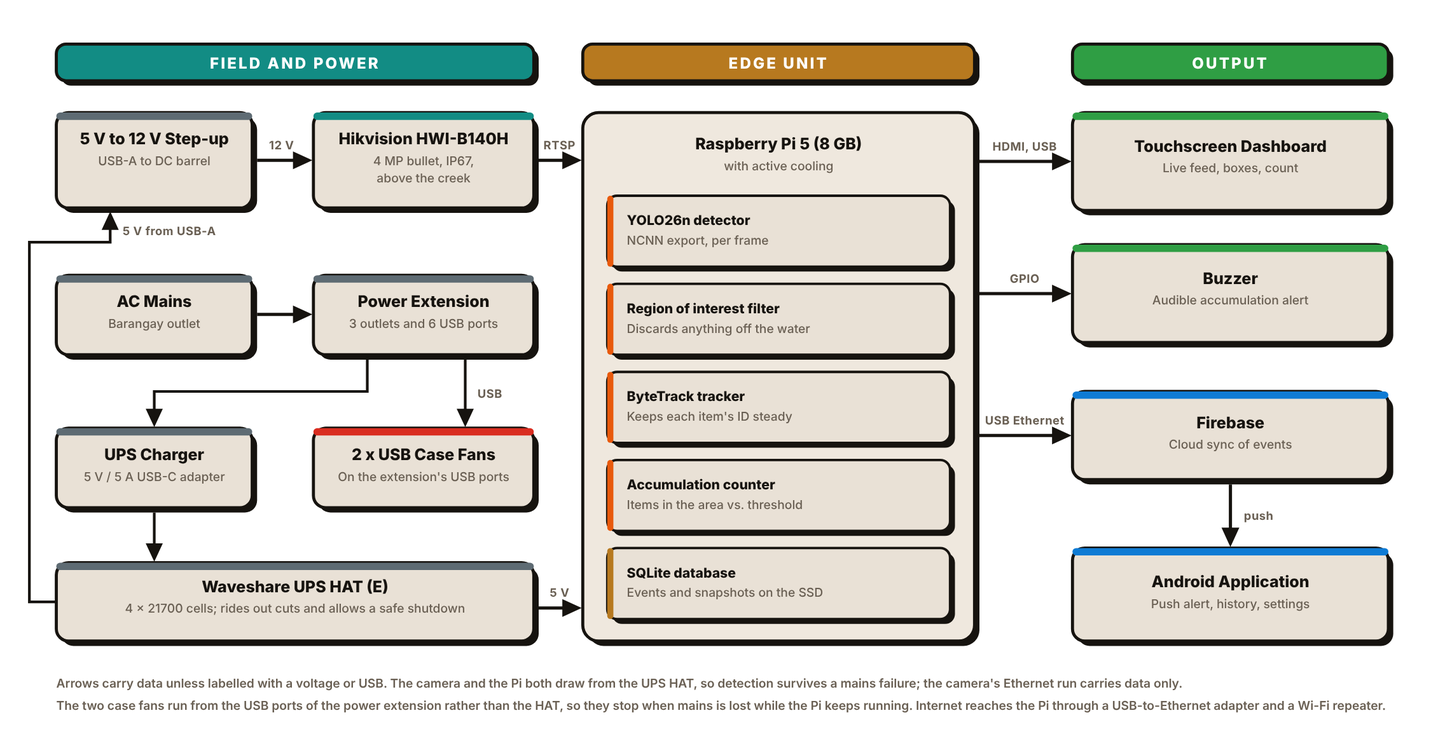
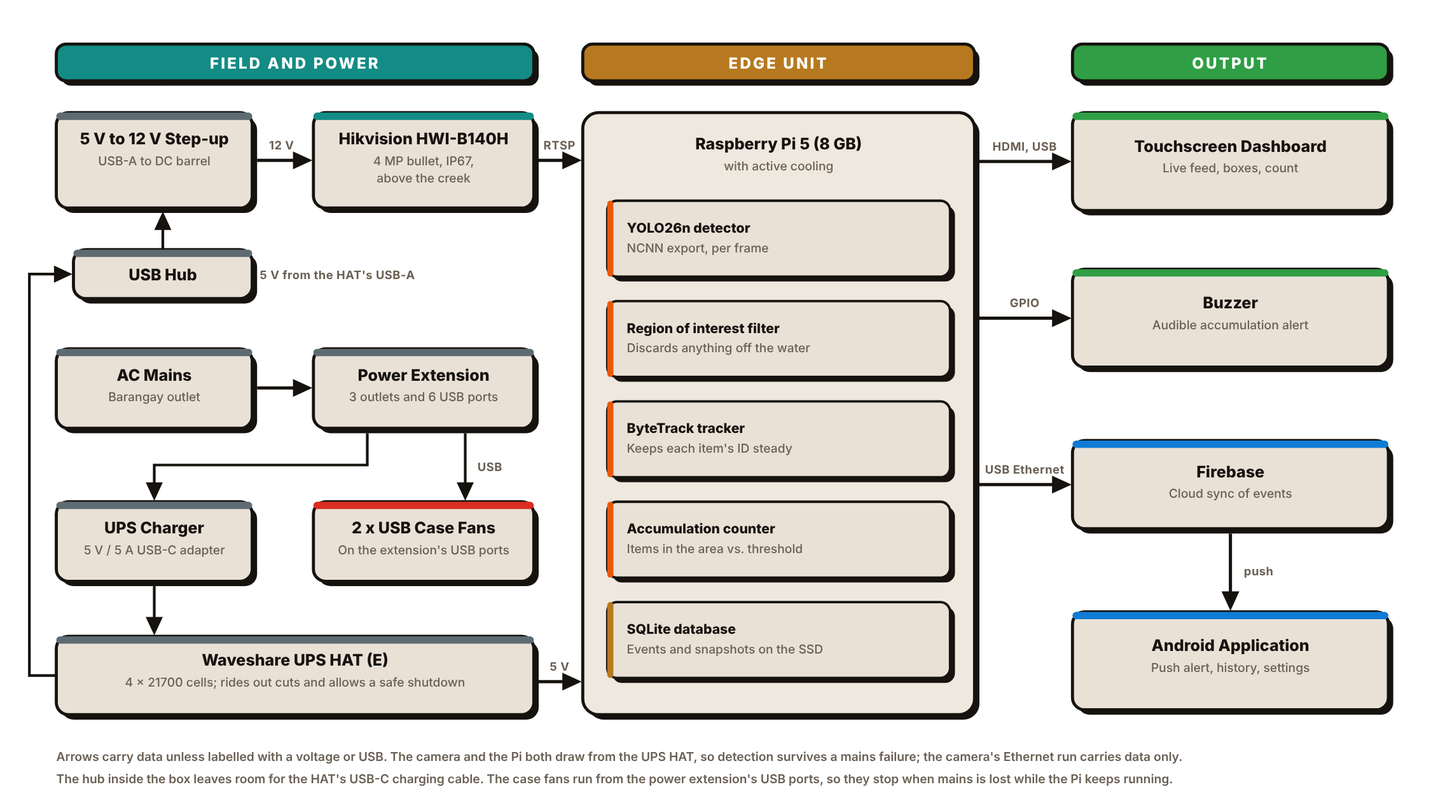
v22 inputs: USB hub in the architecture figure and Chapter III

diff --git a/Documents/Figures/GarbageGuard_System_Architecture.html b/Documents/Figures/GarbageGuard_System_Architecture.html
@@ -1,12 +1,12 @@
 <!doctype html>
 <html lang="en"><head><meta charset="utf-8"><title>Garbage-Guard System Architecture</title>
 <style>
-@page { size:1180px 600px; margin:0 }
+@page { size:1180px 660px; margin:0 }
 *{margin:0;box-sizing:border-box}
 html,body{background:#FFFFFF}
 body{width:1180px;-webkit-print-color-adjust:exact;print-color-adjust:exact}
 </style></head><body>
-<svg xmlns="http://www.w3.org/2000/svg" viewBox="0 0 1180 600" width="1180" height="600">
+<svg xmlns="http://www.w3.org/2000/svg" viewBox="0 0 1180 660" width="1180" height="660">
 <style>
 text { font-family:system-ui,-apple-system,"Segoe UI","DejaVu Sans",Roboto,sans-serif }
 .ct { font-size:13px; font-weight:800; fill:#16130F }
@@ -17,7 +17,7 @@ text { font-family:system-ui,-apple-system,"Segoe UI","DejaVu Sans",Roboto,sans-
 .tw { font-size:10px; font-weight:500; fill:#6A6054 }
 .lg { font-size:10px; font-weight:600; fill:#6A6054 }
 </style>
-<rect width="1180" height="600" fill="#FFFFFF"/>
-<rect x="50" y="40" width="390" height="30" rx="8" fill="#16130F"/><rect x="46" y="36" width="390" height="30" rx="8" fill="#128C84" stroke="#16130F" stroke-width="2.5"/><text x="241.0" y="56" class="hd" text-anchor="middle">FIELD AND POWER</text><rect x="50" y="96" width="160" height="78" rx="10" fill="#16130F"/><rect x="46" y="92" width="160" height="78" rx="10" fill="#E9E1D6" stroke="#16130F" stroke-width="2.5"/><rect x="46" y="92" width="160" height="6" rx="3" fill="#5E6B73"/><text x="126.0" y="118" class="ct" text-anchor="middle">5 V to 12 V Step-up</text><text x="126.0" y="135" class="cs" text-anchor="middle">USB-A to DC barrel</text><rect x="260" y="96" width="180" height="78" rx="10" fill="#16130F"/><rect x="256" y="92" width="180" height="78" rx="10" fill="#E9E1D6" stroke="#16130F" stroke-width="2.5"/><rect x="256" y="92" width="180" height="6" rx="3" fill="#128C84"/><text x="346.0" y="118" class="ct" text-anchor="middle">Hikvision HWI-B140H</text><text x="346.0" y="135" class="cs" text-anchor="middle">4 MP bullet, IP67,</text><text x="346.0" y="149" class="cs" text-anchor="middle">above the creek</text><rect x="50" y="229" width="160" height="65" rx="10" fill="#16130F"/><rect x="46" y="225" width="160" height="65" rx="10" fill="#E9E1D6" stroke="#16130F" stroke-width="2.5"/><rect x="46" y="225" width="160" height="6" rx="3" fill="#5E6B73"/><text x="126.0" y="251" class="ct" text-anchor="middle">AC Mains</text><text x="126.0" y="268" class="cs" text-anchor="middle">Barangay outlet</text><rect x="260" y="229" width="180" height="65" rx="10" fill="#16130F"/><rect x="256" y="225" width="180" height="65" rx="10" fill="#E9E1D6" stroke="#16130F" stroke-width="2.5"/><rect x="256" y="225" width="180" height="6" rx="3" fill="#5E6B73"/><text x="346.0" y="251" class="ct" text-anchor="middle">Power Extension</text><text x="346.0" y="268" class="cs" text-anchor="middle">3 outlets and 6 USB ports</text><rect x="50" y="354" width="160" height="65" rx="10" fill="#16130F"/><rect x="46" y="350" width="160" height="65" rx="10" fill="#E9E1D6" stroke="#16130F" stroke-width="2.5"/><rect x="46" y="350" width="160" height="6" rx="3" fill="#5E6B73"/><text x="126.0" y="376" class="ct" text-anchor="middle">UPS Charger</text><text x="126.0" y="393" class="cs" text-anchor="middle">5 V / 5 A USB-C adapter</text><rect x="260" y="354" width="180" height="65" rx="10" fill="#16130F"/><rect x="256" y="350" width="180" height="65" rx="10" fill="#E9E1D6" stroke="#16130F" stroke-width="2.5"/><rect x="256" y="350" width="180" height="6" rx="3" fill="#D92D20"/><text x="346.0" y="376" class="ct" text-anchor="middle">2 x USB Case Fans</text><text x="346.0" y="393" class="cs" text-anchor="middle">On the extension's USB ports</text><rect x="50" y="464" width="390" height="64" rx="10" fill="#16130F"/><rect x="46" y="460" width="390" height="64" rx="10" fill="#E9E1D6" stroke="#16130F" stroke-width="2.5"/><rect x="46" y="460" width="390" height="6" rx="3" fill="#5E6B73"/><text x="241.0" y="484" class="ct" text-anchor="middle">Waveshare UPS HAT (E)</text><text x="241.0" y="501" class="cs" text-anchor="middle">4 x 21700 cells; rides out cuts and allows a safe shutdown</text><rect x="480" y="40" width="320" height="30" rx="8" fill="#16130F"/><rect x="476" y="36" width="320" height="30" rx="8" fill="#B7791F" stroke="#16130F" stroke-width="2.5"/><text x="636.0" y="56" class="hd" text-anchor="middle">EDGE UNIT</text><rect x="480" y="96" width="320" height="432" rx="13" fill="#16130F"/><rect x="476" y="92" width="320" height="432" rx="13" fill="#EFE8DE" stroke="#16130F" stroke-width="2.5"/><text x="636" y="122" class="ct" text-anchor="middle">Raspberry Pi 5 (8 GB)</text><text x="636" y="139" class="cs" text-anchor="middle">with active cooling</text><rect x="500" y="164" width="280" height="58" rx="8" fill="#16130F"/><rect x="496" y="160" width="280" height="58" rx="8" fill="#E9E1D6" stroke="#16130F" stroke-width="2"/><rect x="496" y="160" width="5" height="58" rx="2.5" fill="#E8590C"/><text x="512" y="184" class="ti">YOLO26n detector</text><text x="512" y="200" class="tw">NCNN export, per frame</text><rect x="500" y="236" width="280" height="58" rx="8" fill="#16130F"/><rect x="496" y="232" width="280" height="58" rx="8" fill="#E9E1D6" stroke="#16130F" stroke-width="2"/><rect x="496" y="232" width="5" height="58" rx="2.5" fill="#E8590C"/><text x="512" y="256" class="ti">Region of interest filter</text><text x="512" y="272" class="tw">Discards anything off the water</text><rect x="500" y="308" width="280" height="58" rx="8" fill="#16130F"/><rect x="496" y="304" width="280" height="58" rx="8" fill="#E9E1D6" stroke="#16130F" stroke-width="2"/><rect x="496" y="304" width="5" height="58" rx="2.5" fill="#E8590C"/><text x="512" y="328" class="ti">ByteTrack tracker</text><text x="512" y="344" class="tw">Keeps each item's ID steady</text><rect x="500" y="380" width="280" height="58" rx="8" fill="#16130F"/><rect x="496" y="376" width="280" height="58" rx="8" fill="#E9E1D6" stroke="#16130F" stroke-width="2"/><rect x="496" y="376" width="5" height="58" rx="2.5" fill="#E8590C"/><text x="512" y="400" class="ti">Accumulation counter</text><text x="512" y="416" class="tw">Items in the area vs. threshold</text><rect x="500" y="452" width="280" height="58" rx="8" fill="#16130F"/><rect x="496" y="448" width="280" height="58" rx="8" fill="#E9E1D6" stroke="#16130F" stroke-width="2"/><rect x="496" y="448" width="5" height="58" rx="2.5" fill="#B7791F"/><text x="512" y="472" class="ti">SQLite database</text><text x="512" y="488" class="tw">Events and snapshots on the SSD</text><rect x="880" y="40" width="258" height="30" rx="8" fill="#16130F"/><rect x="876" y="36" width="258" height="30" rx="8" fill="#2F9E44" stroke="#16130F" stroke-width="2.5"/><text x="1005.0" y="56" class="hd" text-anchor="middle">OUTPUT</text><rect x="880" y="96" width="258" height="80" rx="10" fill="#16130F"/><rect x="876" y="92" width="258" height="80" rx="10" fill="#E9E1D6" stroke="#16130F" stroke-width="2.5"/><rect x="876" y="92" width="258" height="6" rx="3" fill="#2F9E44"/><text x="1005.0" y="124" class="ct" text-anchor="middle">Touchscreen Dashboard</text><text x="1005.0" y="141" class="cs" text-anchor="middle">Live feed, boxes, count</text><rect x="880" y="204" width="258" height="80" rx="10" fill="#16130F"/><rect x="876" y="200" width="258" height="80" rx="10" fill="#E9E1D6" stroke="#16130F" stroke-width="2.5"/><rect x="876" y="200" width="258" height="6" rx="3" fill="#2F9E44"/><text x="1005.0" y="232" class="ct" text-anchor="middle">Buzzer</text><text x="1005.0" y="249" class="cs" text-anchor="middle">Audible accumulation alert</text><rect x="880" y="324" width="258" height="72" rx="10" fill="#16130F"/><rect x="876" y="320" width="258" height="72" rx="10" fill="#E9E1D6" stroke="#16130F" stroke-width="2.5"/><rect x="876" y="320" width="258" height="6" rx="3" fill="#0F7BD4"/><text x="1005.0" y="350" class="ct" text-anchor="middle">Firebase</text><text x="1005.0" y="367" class="cs" text-anchor="middle">Cloud sync of events</text><rect x="880" y="452" width="258" height="76" rx="10" fill="#16130F"/><rect x="876" y="448" width="258" height="76" rx="10" fill="#E9E1D6" stroke="#16130F" stroke-width="2.5"/><rect x="876" y="448" width="258" height="6" rx="3" fill="#0F7BD4"/><text x="1005.0" y="480" class="ct" text-anchor="middle">Android Application</text><text x="1005.0" y="497" class="cs" text-anchor="middle">Push alert, history, settings</text><polyline stroke-linejoin="miter" points="210.0,131.0 240.3,131.0" fill="none" stroke="#16130F" stroke-width="2.6"/><polygon points="254.0,131.0 239.8,137.5 239.8,124.5" fill="#16130F" stroke="#16130F" stroke-width="1" stroke-linejoin="miter"/><text x="230" y="122" class="al" text-anchor="middle">12 V</text><polyline stroke-linejoin="miter" points="440.0,131.0 460.3,131.0" fill="none" stroke="#16130F" stroke-width="2.6"/><polygon points="474.0,131.0 459.8,137.5 459.8,124.5" fill="#16130F" stroke="#16130F" stroke-width="1" stroke-linejoin="miter"/><text x="457" y="122" class="al" text-anchor="middle">RTSP</text><polyline stroke-linejoin="miter" points="210.0,257.0 240.3,257.0" fill="none" stroke="#16130F" stroke-width="2.6"/><polygon points="254.0,257.0 239.8,263.5 239.8,250.5" fill="#16130F" stroke="#16130F" stroke-width="1" stroke-linejoin="miter"/><polyline stroke-linejoin="miter" points="300.0,294.0 300.0,320.0 126.0,320.0 126.0,335.1" fill="none" stroke="#16130F" stroke-width="2.2"/><polygon points="126.0,348.0 119.8,334.6 132.2,334.6" fill="#16130F" stroke="#16130F" stroke-width="1" stroke-linejoin="miter"/><polyline stroke-linejoin="miter" points="380.0,294.0 380.0,335.1" fill="none" stroke="#16130F" stroke-width="2.2"/><polygon points="380.0,348.0 373.8,334.6 386.2,334.6" fill="#16130F" stroke="#16130F" stroke-width="1" stroke-linejoin="miter"/><text x="390" y="325" class="al" text-anchor="start">USB</text><polyline stroke-linejoin="miter" points="126.0,419.0 126.0,445.1" fill="none" stroke="#16130F" stroke-width="2.2"/><polygon points="126.0,458.0 119.8,444.6 132.2,444.6" fill="#16130F" stroke="#16130F" stroke-width="1" stroke-linejoin="miter"/><polyline stroke-linejoin="miter" points="440.0,497.0 460.3,497.0" fill="none" stroke="#16130F" stroke-width="2.6"/><polygon points="474.0,497.0 459.8,503.5 459.8,490.5" fill="#16130F" stroke="#16130F" stroke-width="1" stroke-linejoin="miter"/><text x="457" y="488" class="al" text-anchor="middle">5 V</text><polyline stroke-linejoin="miter" points="46.0,492.0 24.0,492.0 24.0,198.0 90.0,198.0 90.0,186.9" fill="none" stroke="#16130F" stroke-width="2.2"/><polygon points="90.0,174.0 96.2,187.4 83.8,187.4" fill="#16130F" stroke="#16130F" stroke-width="1" stroke-linejoin="miter"/><text x="100" y="192" class="al" text-anchor="start">5 V from USB-A</text><polyline stroke-linejoin="miter" points="800.0,132.0 860.3,132.0" fill="none" stroke="#16130F" stroke-width="2.6"/><polygon points="874.0,132.0 859.8,138.5 859.8,125.5" fill="#16130F" stroke="#16130F" stroke-width="1" stroke-linejoin="miter"/><text x="837" y="123" class="al" text-anchor="middle">HDMI, USB</text><polyline stroke-linejoin="miter" points="800.0,240.0 860.3,240.0" fill="none" stroke="#16130F" stroke-width="2.6"/><polygon points="874.0,240.0 859.8,246.5 859.8,233.5" fill="#16130F" stroke="#16130F" stroke-width="1" stroke-linejoin="miter"/><text x="837" y="231" class="al" text-anchor="middle">GPIO</text><polyline stroke-linejoin="miter" points="800.0,356.0 860.3,356.0" fill="none" stroke="#16130F" stroke-width="2.6"/><polygon points="874.0,356.0 859.8,362.5 859.8,349.5" fill="#16130F" stroke="#16130F" stroke-width="1" stroke-linejoin="miter"/><text x="837" y="347" class="al" text-anchor="middle">USB Ethernet</text><polyline stroke-linejoin="miter" points="1005.0,396.0 1005.0,432.3" fill="none" stroke="#16130F" stroke-width="2.6"/><polygon points="1005.0,446.0 998.5,431.8 1011.5,431.8" fill="#16130F" stroke="#16130F" stroke-width="1" stroke-linejoin="miter"/><text x="1016" y="425" class="al" text-anchor="start">push</text><text x="46" y="562" class="lg" text-anchor="start">Arrows carry data unless labelled with a voltage or USB. The camera and the Pi both draw from the UPS HAT, so detection survives a mains failure; the camera's Ethernet run carries data only.</text><text x="46" y="580" class="lg" text-anchor="start">The two case fans run from the USB ports of the power extension rather than the HAT, so they stop when mains is lost while the Pi keeps running. Internet reaches the Pi through a USB-to-Ethernet adapter and a Wi-Fi repeater.</text>
+<rect width="1180" height="660" fill="#FFFFFF"/>
+<rect x="50" y="40" width="390" height="30" rx="8" fill="#16130F"/><rect x="46" y="36" width="390" height="30" rx="8" fill="#128C84" stroke="#16130F" stroke-width="2.5"/><text x="241.0" y="56" class="hd" text-anchor="middle">FIELD AND POWER</text><rect x="50" y="96" width="160" height="78" rx="10" fill="#16130F"/><rect x="46" y="92" width="160" height="78" rx="10" fill="#E9E1D6" stroke="#16130F" stroke-width="2.5"/><rect x="46" y="92" width="160" height="6" rx="3" fill="#5E6B73"/><text x="126.0" y="118" class="ct" text-anchor="middle">5 V to 12 V Step-up</text><text x="126.0" y="135" class="cs" text-anchor="middle">USB-A to DC barrel</text><rect x="260" y="96" width="180" height="78" rx="10" fill="#16130F"/><rect x="256" y="92" width="180" height="78" rx="10" fill="#E9E1D6" stroke="#16130F" stroke-width="2.5"/><rect x="256" y="92" width="180" height="6" rx="3" fill="#128C84"/><text x="346.0" y="118" class="ct" text-anchor="middle">Hikvision HWI-B140H</text><text x="346.0" y="135" class="cs" text-anchor="middle">4 MP bullet, IP67,</text><text x="346.0" y="149" class="cs" text-anchor="middle">above the creek</text><rect x="64" y="208" width="146" height="40" rx="10" fill="#16130F"/><rect x="60" y="204" width="146" height="40" rx="10" fill="#E9E1D6" stroke="#16130F" stroke-width="2.5"/><rect x="60" y="204" width="146" height="6" rx="3" fill="#5E6B73"/><text x="133.0" y="229" class="ct" text-anchor="middle">USB Hub</text><rect x="50" y="289" width="160" height="65" rx="10" fill="#16130F"/><rect x="46" y="285" width="160" height="65" rx="10" fill="#E9E1D6" stroke="#16130F" stroke-width="2.5"/><rect x="46" y="285" width="160" height="6" rx="3" fill="#5E6B73"/><text x="126.0" y="311" class="ct" text-anchor="middle">AC Mains</text><text x="126.0" y="328" class="cs" text-anchor="middle">Barangay outlet</text><rect x="260" y="289" width="180" height="65" rx="10" fill="#16130F"/><rect x="256" y="285" width="180" height="65" rx="10" fill="#E9E1D6" stroke="#16130F" stroke-width="2.5"/><rect x="256" y="285" width="180" height="6" rx="3" fill="#5E6B73"/><text x="346.0" y="311" class="ct" text-anchor="middle">Power Extension</text><text x="346.0" y="328" class="cs" text-anchor="middle">3 outlets and 6 USB ports</text><rect x="50" y="414" width="160" height="65" rx="10" fill="#16130F"/><rect x="46" y="410" width="160" height="65" rx="10" fill="#E9E1D6" stroke="#16130F" stroke-width="2.5"/><rect x="46" y="410" width="160" height="6" rx="3" fill="#5E6B73"/><text x="126.0" y="436" class="ct" text-anchor="middle">UPS Charger</text><text x="126.0" y="453" class="cs" text-anchor="middle">5 V / 5 A USB-C adapter</text><rect x="260" y="414" width="180" height="65" rx="10" fill="#16130F"/><rect x="256" y="410" width="180" height="65" rx="10" fill="#E9E1D6" stroke="#16130F" stroke-width="2.5"/><rect x="256" y="410" width="180" height="6" rx="3" fill="#D92D20"/><text x="346.0" y="436" class="ct" text-anchor="middle">2 x USB Case Fans</text><text x="346.0" y="453" class="cs" text-anchor="middle">On the extension's USB ports</text><rect x="50" y="524" width="390" height="64" rx="10" fill="#16130F"/><rect x="46" y="520" width="390" height="64" rx="10" fill="#E9E1D6" stroke="#16130F" stroke-width="2.5"/><rect x="46" y="520" width="390" height="6" rx="3" fill="#5E6B73"/><text x="241.0" y="544" class="ct" text-anchor="middle">Waveshare UPS HAT (E)</text><text x="241.0" y="561" class="cs" text-anchor="middle">4 x 21700 cells; rides out cuts and allows a safe shutdown</text><rect x="480" y="40" width="320" height="30" rx="8" fill="#16130F"/><rect x="476" y="36" width="320" height="30" rx="8" fill="#B7791F" stroke="#16130F" stroke-width="2.5"/><text x="636.0" y="56" class="hd" text-anchor="middle">EDGE UNIT</text><rect x="480" y="96" width="320" height="492" rx="13" fill="#16130F"/><rect x="476" y="92" width="320" height="492" rx="13" fill="#EFE8DE" stroke="#16130F" stroke-width="2.5"/><text x="636" y="122" class="ct" text-anchor="middle">Raspberry Pi 5 (8 GB)</text><text x="636" y="139" class="cs" text-anchor="middle">with active cooling</text><rect x="500" y="168" width="280" height="62" rx="8" fill="#16130F"/><rect x="496" y="164" width="280" height="62" rx="8" fill="#E9E1D6" stroke="#16130F" stroke-width="2"/><rect x="496" y="164" width="5" height="62" rx="2.5" fill="#E8590C"/><text x="512" y="190" class="ti">YOLO26n detector</text><text x="512" y="206" class="tw">NCNN export, per frame</text><rect x="500" y="250" width="280" height="62" rx="8" fill="#16130F"/><rect x="496" y="246" width="280" height="62" rx="8" fill="#E9E1D6" stroke="#16130F" stroke-width="2"/><rect x="496" y="246" width="5" height="62" rx="2.5" fill="#E8590C"/><text x="512" y="272" class="ti">Region of interest filter</text><text x="512" y="288" class="tw">Discards anything off the water</text><rect x="500" y="332" width="280" height="62" rx="8" fill="#16130F"/><rect x="496" y="328" width="280" height="62" rx="8" fill="#E9E1D6" stroke="#16130F" stroke-width="2"/><rect x="496" y="328" width="5" height="62" rx="2.5" fill="#E8590C"/><text x="512" y="354" class="ti">ByteTrack tracker</text><text x="512" y="370" class="tw">Keeps each item's ID steady</text><rect x="500" y="414" width="280" height="62" rx="8" fill="#16130F"/><rect x="496" y="410" width="280" height="62" rx="8" fill="#E9E1D6" stroke="#16130F" stroke-width="2"/><rect x="496" y="410" width="5" height="62" rx="2.5" fill="#E8590C"/><text x="512" y="436" class="ti">Accumulation counter</text><text x="512" y="452" class="tw">Items in the area vs. threshold</text><rect x="500" y="496" width="280" height="62" rx="8" fill="#16130F"/><rect x="496" y="492" width="280" height="62" rx="8" fill="#E9E1D6" stroke="#16130F" stroke-width="2"/><rect x="496" y="492" width="5" height="62" rx="2.5" fill="#B7791F"/><text x="512" y="518" class="ti">SQLite database</text><text x="512" y="534" class="tw">Events and snapshots on the SSD</text><rect x="880" y="40" width="258" height="30" rx="8" fill="#16130F"/><rect x="876" y="36" width="258" height="30" rx="8" fill="#2F9E44" stroke="#16130F" stroke-width="2.5"/><text x="1005.0" y="56" class="hd" text-anchor="middle">OUTPUT</text><rect x="880" y="96" width="258" height="80" rx="10" fill="#16130F"/><rect x="876" y="92" width="258" height="80" rx="10" fill="#E9E1D6" stroke="#16130F" stroke-width="2.5"/><rect x="876" y="92" width="258" height="6" rx="3" fill="#2F9E44"/><text x="1005.0" y="124" class="ct" text-anchor="middle">Touchscreen Dashboard</text><text x="1005.0" y="141" class="cs" text-anchor="middle">Live feed, boxes, count</text><rect x="880" y="224" width="258" height="80" rx="10" fill="#16130F"/><rect x="876" y="220" width="258" height="80" rx="10" fill="#E9E1D6" stroke="#16130F" stroke-width="2.5"/><rect x="876" y="220" width="258" height="6" rx="3" fill="#2F9E44"/><text x="1005.0" y="252" class="ct" text-anchor="middle">Buzzer</text><text x="1005.0" y="269" class="cs" text-anchor="middle">Audible accumulation alert</text><rect x="880" y="364" width="258" height="72" rx="10" fill="#16130F"/><rect x="876" y="360" width="258" height="72" rx="10" fill="#E9E1D6" stroke="#16130F" stroke-width="2.5"/><rect x="876" y="360" width="258" height="6" rx="3" fill="#0F7BD4"/><text x="1005.0" y="390" class="ct" text-anchor="middle">Firebase</text><text x="1005.0" y="407" class="cs" text-anchor="middle">Cloud sync of events</text><rect x="880" y="504" width="258" height="80" rx="10" fill="#16130F"/><rect x="876" y="500" width="258" height="80" rx="10" fill="#E9E1D6" stroke="#16130F" stroke-width="2.5"/><rect x="876" y="500" width="258" height="6" rx="3" fill="#0F7BD4"/><text x="1005.0" y="532" class="ct" text-anchor="middle">Android Application</text><text x="1005.0" y="549" class="cs" text-anchor="middle">Push alert, history, settings</text><polyline stroke-linejoin="miter" points="210.0,131.0 240.3,131.0" fill="none" stroke="#16130F" stroke-width="2.6"/><polygon points="254.0,131.0 239.8,137.5 239.8,124.5" fill="#16130F" stroke="#16130F" stroke-width="1" stroke-linejoin="miter"/><text x="230" y="122" class="al" text-anchor="middle">12 V</text><polyline stroke-linejoin="miter" points="440.0,131.0 460.3,131.0" fill="none" stroke="#16130F" stroke-width="2.6"/><polygon points="474.0,131.0 459.8,137.5 459.8,124.5" fill="#16130F" stroke="#16130F" stroke-width="1" stroke-linejoin="miter"/><text x="457" y="122" class="al" text-anchor="middle">RTSP</text><polyline stroke-linejoin="miter" points="133.0,204.0 133.0,186.9" fill="none" stroke="#16130F" stroke-width="2.2"/><polygon points="133.0,174.0 139.2,187.4 126.8,187.4" fill="#16130F" stroke="#16130F" stroke-width="1" stroke-linejoin="miter"/><polyline stroke-linejoin="miter" points="210.0,317.0 240.3,317.0" fill="none" stroke="#16130F" stroke-width="2.6"/><polygon points="254.0,317.0 239.8,323.5 239.8,310.5" fill="#16130F" stroke="#16130F" stroke-width="1" stroke-linejoin="miter"/><polyline stroke-linejoin="miter" points="300.0,354.0 300.0,380.0 126.0,380.0 126.0,395.1" fill="none" stroke="#16130F" stroke-width="2.2"/><polygon points="126.0,408.0 119.8,394.6 132.2,394.6" fill="#16130F" stroke="#16130F" stroke-width="1" stroke-linejoin="miter"/><polyline stroke-linejoin="miter" points="380.0,354.0 380.0,395.1" fill="none" stroke="#16130F" stroke-width="2.2"/><polygon points="380.0,408.0 373.8,394.6 386.2,394.6" fill="#16130F" stroke="#16130F" stroke-width="1" stroke-linejoin="miter"/><text x="390" y="385" class="al" text-anchor="start">USB</text><polyline stroke-linejoin="miter" points="126.0,479.0 126.0,505.1" fill="none" stroke="#16130F" stroke-width="2.2"/><polygon points="126.0,518.0 119.8,504.6 132.2,504.6" fill="#16130F" stroke="#16130F" stroke-width="1" stroke-linejoin="miter"/><polyline stroke-linejoin="miter" points="440.0,557.0 460.3,557.0" fill="none" stroke="#16130F" stroke-width="2.6"/><polygon points="474.0,557.0 459.8,563.5 459.8,550.5" fill="#16130F" stroke="#16130F" stroke-width="1" stroke-linejoin="miter"/><text x="457" y="548" class="al" text-anchor="middle">5 V</text><polyline stroke-linejoin="miter" points="46.0,552.0 24.0,552.0 24.0,224.0 45.1,224.0" fill="none" stroke="#16130F" stroke-width="2.2"/><polygon points="58.0,224.0 44.6,230.2 44.6,217.8" fill="#16130F" stroke="#16130F" stroke-width="1" stroke-linejoin="miter"/><text x="212" y="228" class="al" text-anchor="start">5 V from the HAT's USB-A</text><polyline stroke-linejoin="miter" points="800.0,132.0 860.3,132.0" fill="none" stroke="#16130F" stroke-width="2.6"/><polygon points="874.0,132.0 859.8,138.5 859.8,125.5" fill="#16130F" stroke="#16130F" stroke-width="1" stroke-linejoin="miter"/><text x="837" y="123" class="al" text-anchor="middle">HDMI, USB</text><polyline stroke-linejoin="miter" points="800.0,260.0 860.3,260.0" fill="none" stroke="#16130F" stroke-width="2.6"/><polygon points="874.0,260.0 859.8,266.5 859.8,253.5" fill="#16130F" stroke="#16130F" stroke-width="1" stroke-linejoin="miter"/><text x="837" y="251" class="al" text-anchor="middle">GPIO</text><polyline stroke-linejoin="miter" points="800.0,396.0 860.3,396.0" fill="none" stroke="#16130F" stroke-width="2.6"/><polygon points="874.0,396.0 859.8,402.5 859.8,389.5" fill="#16130F" stroke="#16130F" stroke-width="1" stroke-linejoin="miter"/><text x="837" y="387" class="al" text-anchor="middle">USB Ethernet</text><polyline stroke-linejoin="miter" points="1005.0,436.0 1005.0,484.3" fill="none" stroke="#16130F" stroke-width="2.6"/><polygon points="1005.0,498.0 998.5,483.8 1011.5,483.8" fill="#16130F" stroke="#16130F" stroke-width="1" stroke-linejoin="miter"/><text x="1016" y="470" class="al" text-anchor="start">push</text><text x="46" y="622" class="lg" text-anchor="start">Arrows carry data unless labelled with a voltage or USB. The camera and the Pi both draw from the UPS HAT, so detection survives a mains failure; the camera's Ethernet run carries data only.</text><text x="46" y="640" class="lg" text-anchor="start">The hub inside the box leaves room for the HAT's USB-C charging cable. The case fans run from the power extension's USB ports, so they stop when mains is lost while the Pi keeps running.</text>
 </svg>
 </body></html>

diff --git a/Documents/v21 build/figure generators/arch.py b/Documents/v21 build/figure generators/arch.py
@@ -1,39 +1,41 @@
 import sys; from ggfig import *
-o=[]
+o=[]; D=60
 o.append(header(46,36,390,"FIELD AND POWER","#128C84"))
 o.append(card(46,92,160,78,"5 V to 12 V Step-up",["USB-A to DC barrel"],ty=118))
 o.append(card(256,92,180,78,"Hikvision HWI-B140H",["4 MP bullet, IP67,","above the creek"],"#128C84",ty=118))
-o.append(card(46,225,160,65,"AC Mains",["Barangay outlet"],ty=251))
-o.append(card(256,225,180,65,"Power Extension",["3 outlets and 6 USB ports"],ty=251))
-o.append(card(46,350,160,65,"UPS Charger",["5 V / 5 A USB-C adapter"],ty=376))
-o.append(card(256,350,180,65,"2 x USB Case Fans",["On the extension's USB ports"],"#D92D20",ty=376))
-o.append(card(46,460,390,64,"Waveshare UPS HAT (E)",["4 x 21700 cells; rides out cuts and allows a safe shutdown"],ty=484))
+o.append(card(60,204,146,40,"USB Hub",[],ty=229))
+o.append(card(46,225+D,160,65,"AC Mains",["Barangay outlet"],ty=251+D))
+o.append(card(256,225+D,180,65,"Power Extension",["3 outlets and 6 USB ports"],ty=251+D))
+o.append(card(46,350+D,160,65,"UPS Charger",["5 V / 5 A USB-C adapter"],ty=376+D))
+o.append(card(256,350+D,180,65,"2 x USB Case Fans",["On the extension's USB ports"],"#D92D20",ty=376+D))
+o.append(card(46,460+D,390,64,"Waveshare UPS HAT (E)",["4 x 21700 cells; rides out cuts and allows a safe shutdown"],ty=484+D))
 o.append(header(476,36,320,"EDGE UNIT","#B7791F"))
-o.append(f'<rect x="480" y="96" width="320" height="432" rx="13" fill="{INK}"/><rect x="476" y="92" width="320" height="432" rx="13" fill="#EFE8DE" stroke="{INK}" stroke-width="2.5"/>')
+o.append(f'<rect x="480" y="96" width="320" height="492" rx="13" fill="{INK}"/><rect x="476" y="92" width="320" height="492" rx="13" fill="#EFE8DE" stroke="{INK}" stroke-width="2.5"/>')
 o.append(label(636,122,"Raspberry Pi 5 (8 GB)","middle","ct")); o.append(label(636,139,"with active cooling","middle","cs"))
 subs=[("YOLO26n detector","NCNN export, per frame","#E8590C"),("Region of interest filter","Discards anything off the water","#E8590C"),
 ("ByteTrack tracker","Keeps each item's ID steady","#E8590C"),("Accumulation counter","Items in the area vs. threshold","#E8590C"),("SQLite database","Events and snapshots on the SSD","#B7791F")]
 for i,(t,s,c) in enumerate(subs):
-    y=160+i*72
-    o.append(f'<rect x="500" y="{y+4}" width="280" height="58" rx="8" fill="{INK}"/><rect x="496" y="{y}" width="280" height="58" rx="8" fill="#E9E1D6" stroke="{INK}" stroke-width="2"/><rect x="496" y="{y}" width="5" height="58" rx="2.5" fill="{c}"/>')
-    o.append(f'<text x="512" y="{y+24}" class="ti">{t}</text><text x="512" y="{y+40}" class="tw">{s}</text>')
+    y=164+i*82
+    o.append(f'<rect x="500" y="{y+4}" width="280" height="62" rx="8" fill="{INK}"/><rect x="496" y="{y}" width="280" height="62" rx="8" fill="#E9E1D6" stroke="{INK}" stroke-width="2"/><rect x="496" y="{y}" width="5" height="62" rx="2.5" fill="{c}"/>')
+    o.append(f'<text x="512" y="{y+26}" class="ti">{t}</text><text x="512" y="{y+42}" class="tw">{s}</text>')
 o.append(header(876,36,258,"OUTPUT","#2F9E44"))
 o.append(card(876,92,258,80,"Touchscreen Dashboard",["Live feed, boxes, count"],"#2F9E44",ty=124))
-o.append(card(876,200,258,80,"Buzzer",["Audible accumulation alert"],"#2F9E44",ty=232))
-o.append(card(876,320,258,72,"Firebase",["Cloud sync of events"],"#0F7BD4",ty=350))
-o.append(card(876,448,258,76,"Android Application",["Push alert, history, settings"],"#0F7BD4",ty=480))
+o.append(card(876,220,258,80,"Buzzer",["Audible accumulation alert"],"#2F9E44",ty=252))
+o.append(card(876,360,258,72,"Firebase",["Cloud sync of events"],"#0F7BD4",ty=390))
+o.append(card(876,500,258,80,"Android Application",["Push alert, history, settings"],"#0F7BD4",ty=532))
 o.append(arrow([(210,131),(254,131)],2.6)); o.append(label(230,122,"12 V"))
 o.append(arrow([(440,131),(474,131)],2.6)); o.append(label(457,122,"RTSP"))
-o.append(arrow([(210,257),(254,257)],2.6))
-o.append(arrow([(300,294),(300,320),(126,320),(126,348)],2.2))
-o.append(arrow([(380,294),(380,348)],2.2)); o.append(label(390,325,"USB","start"))
-o.append(arrow([(126,419),(126,458)],2.2))
-o.append(arrow([(440,497),(474,497)],2.6)); o.append(label(457,488,"5 V"))
-o.append(arrow([(46,492),(24,492),(24,198),(90,198),(90,174)],2.2)); o.append(label(100,192,"5 V from USB-A","start"))
+o.append(arrow([(133,204),(133,174)],2.2))
+o.append(arrow([(210,257+D),(254,257+D)],2.6))
+o.append(arrow([(300,294+D),(300,320+D),(126,320+D),(126,348+D)],2.2))
+o.append(arrow([(380,294+D),(380,348+D)],2.2)); o.append(label(390,325+D,"USB","start"))
+o.append(arrow([(126,419+D),(126,458+D)],2.2))
+o.append(arrow([(440,497+D),(474,497+D)],2.6)); o.append(label(457,488+D,"5 V"))
+o.append(arrow([(46,492+D),(24,492+D),(24,224),(58,224)],2.2)); o.append(label(212,228,"5 V from the HAT's USB-A","start"))
 o.append(arrow([(800,132),(874,132)],2.6)); o.append(label(837,123,"HDMI, USB"))
-o.append(arrow([(800,240),(874,240)],2.6)); o.append(label(837,231,"GPIO"))
-o.append(arrow([(800,356),(874,356)],2.6)); o.append(label(837,347,"USB Ethernet"))
-o.append(arrow([(1005,396),(1005,446)],2.6)); o.append(label(1016,425,"push","start"))
-o.append(label(46,562,"Arrows carry data unless labelled with a voltage or USB. The camera and the Pi both draw from the UPS HAT, so detection survives a mains failure; the camera's Ethernet run carries data only.","start","lg"))
-o.append(label(46,580,"The two case fans run from the USB ports of the power extension rather than the HAT, so they stop when mains is lost while the Pi keeps running. Internet reaches the Pi through a USB-to-Ethernet adapter and a Wi-Fi repeater.","start","lg"))
-open(sys.argv[1],'w').write(page("Garbage-Guard System Architecture",1180,600,"".join(o)))
+o.append(arrow([(800,260),(874,260)],2.6)); o.append(label(837,251,"GPIO"))
+o.append(arrow([(800,396),(874,396)],2.6)); o.append(label(837,387,"USB Ethernet"))
+o.append(arrow([(1005,436),(1005,498)],2.6)); o.append(label(1016,470,"push","start"))
+o.append(label(46,622,"Arrows carry data unless labelled with a voltage or USB. The camera and the Pi both draw from the UPS HAT, so detection survives a mains failure; the camera's Ethernet run carries data only.","start","lg"))
+o.append(label(46,640,"The hub inside the box leaves room for the HAT's USB-C charging cable. The case fans run from the power extension's USB ports, so they stop when mains is lost while the Pi keeps running.","start","lg"))
+open(sys.argv[1],'w').write(page("Garbage-Guard System Architecture",1180,660,"".join(o)))

diff --git a/Documents/v22 build/build_v22.py b/Documents/v22 build/build_v22.py
@@ -1,0 +1,73 @@
+"""Build Garbage-Guard v22 from v21: the USB hub inside the enclosure.
+
+python build_v22.py IN.docx OUT.docx FIG_DIR
+"""
+import sys
+import docx
+from docx.oxml.ns import qn
+from PIL import Image
+
+SRC, OUT, FIGS = sys.argv[1:4]
+doc = docx.Document(SRC)
+ps = lambda: doc.paragraphs
+
+
+def find(sub, start=0):
+    for i, p in enumerate(ps()):
+        if i >= start and sub in p.text:
+            return i
+    raise SystemExit(f"not found: {sub!r}")
+
+
+def rewrite(i, old, new):
+    p = ps()[i]
+    t = p.text
+    assert old in t, (i, old)
+    t = t.replace(old, new)
+    runs = p.runs
+    runs[0].text = t
+    for r in runs[1:]:
+        r._r.getparent().remove(r._r)
+
+
+i3 = [i for i, p in enumerate(ps()) if p.text.strip() == "III. METHODOLOGY"][-1]
+
+# 3.4 step-up cable paragraph
+import re
+i = find("It is rated 12V at", i3)
+m = re.search(r"It is rated 12V at [0-9.]+ ?A\.", ps()[i].text)
+assert m, ps()[i].text
+rewrite(i, m.group(0),
+        m.group(0) + " The step-up cable is not plugged into the UPS HAT directly. Its USB-A "
+        "plug cannot fit beside the HAT's USB-C charging cable, so a small USB hub inside the enclosure is "
+        "plugged into the HAT's USB-A output, and the step-up cable runs from the hub.")
+# system design bullet
+i = find("its USB-A output also feeds the camera through a 5 V to 12 V step-up cable", i3)
+rewrite(i, "its USB-A output also feeds the camera through a 5 V to 12 V step-up cable",
+        "its USB-A output also feeds the camera through a USB hub and a 5 V to 12 V step-up cable")
+# assembly step 7
+i = find("its power plug to the 5 V to 12 V step-up cable on the UPS HAT's USB-A output", i3)
+rewrite(i, "its power plug to the 5 V to 12 V step-up cable on the UPS HAT's USB-A output",
+        "its power plug to the 5 V to 12 V step-up cable, which is connected through the USB hub inside "
+        "the box to the UPS HAT's USB-A output")
+
+# Figure 26 image
+cap = [i for i, p in enumerate(ps()) if p.text.strip() == "Figure 26"][-1]
+for k in range(cap, cap + 5):
+    blip = ps()[k]._p.find(".//" + qn("a:blip"))
+    if blip is not None:
+        path = FIGS + "/GarbageGuard_System_Architecture.png"
+        rid, _ = doc.part.get_or_add_image(path)
+        blip.set(qn("r:embed"), rid)
+        w, h = Image.open(path).size
+        ext = ps()[k]._p.find(".//" + qn("wp:extent"))
+        cx = int(ext.get("cx")); cy = int(cx * h / w)
+        ext.set("cy", str(cy))
+        for x in ps()[k]._p.iter(qn("a:ext")):
+            if x.getparent().tag == qn("a:xfrm"):
+                x.set("cx", str(cx)); x.set("cy", str(cy))
+        break
+else:
+    raise SystemExit("Figure 26 picture not found")
+doc.save(OUT)
+print("saved", OUT)
